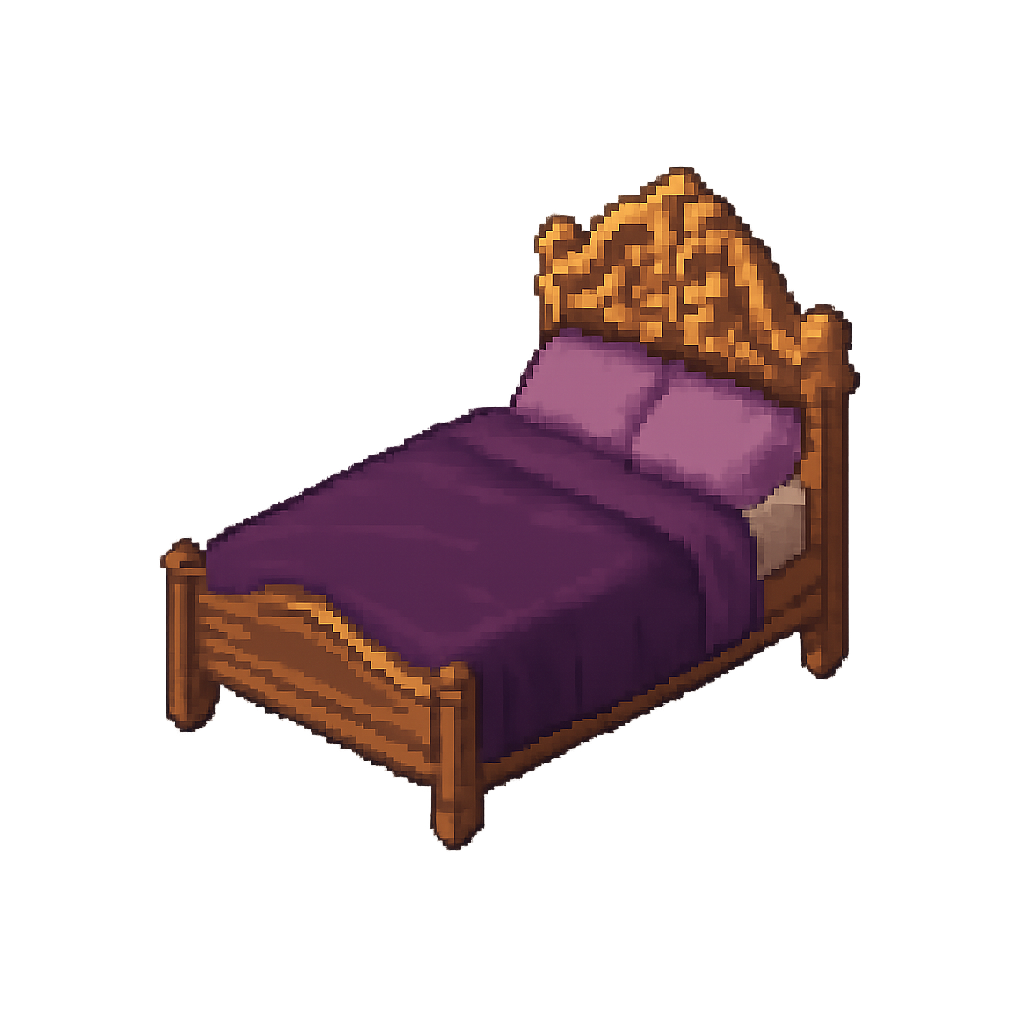
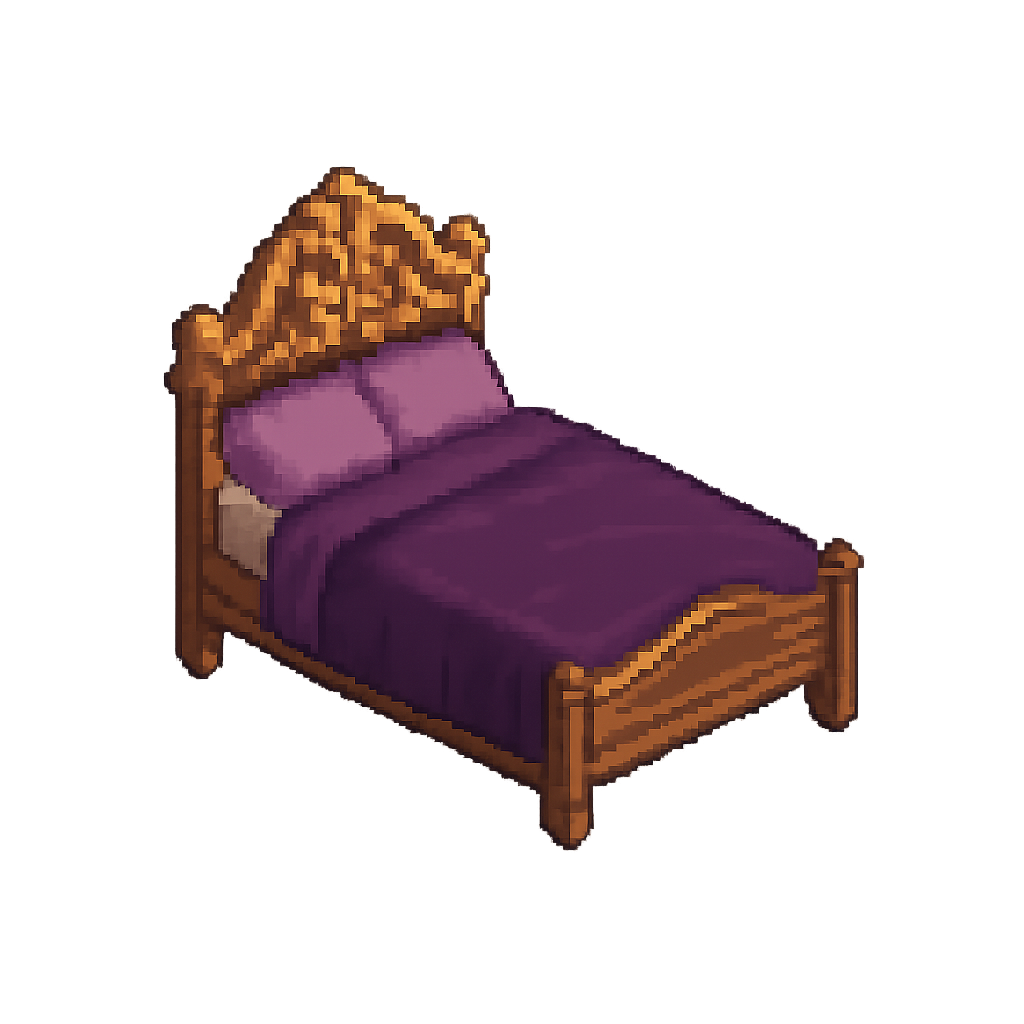
feat: Optimize building visibility with entity caching
- Cache entity visibility states to avoid expensive per-frame checks
- Only recalculate when player moves to new tile
- Use proper furniture scaling (same as other entities)
- Fix building state persistence bug
- Significant performance improvement in buildings

Changed region(s): [[0.1562, 0.1562, 0.8438, 0.8438]]

diff --git a/src/level/level_renderer.py b/src/level/level_renderer.py
@@ -32,7 +32,12 @@ class LevelRendererMixin:
         
         # OPTIMIZATION: Cache player building detection for this frame
         player_x, player_y = int(self.player.x), int(self.player.y)
-        self._player_nearby_buildings = self._get_buildings_near_player(player_x, player_y)
+        
+        # Only recalculate building detection if player moved to a new tile
+        if not hasattr(self, '_last_player_pos') or self._last_player_pos != (player_x, player_y):
+            self._update_building_states(player_x, player_y)
+            self._update_entity_visibility_cache()  # Cache entity visibility too
+            self._last_player_pos = (player_x, player_y)
         
         # Calculate visible tile range - much larger rendering area
         visible_width = (screen_width // self.tile_width) + 10  # Optimized for large worlds
@@ -56,7 +61,7 @@ class LevelRendererMixin:
                 self.render_tile_at_position(game_surface, x, y)
         
         # Clear cached building data after rendering
-        self._player_nearby_buildings = None
+        # Building states persist until player moves
         
         # Collect all entities for depth sorting
         all_entities = []
@@ -71,35 +76,10 @@ class LevelRendererMixin:
         # Sort entities by depth
         sorted_entities = sort_by_depth(all_entities)
         
-        # Render entities to game surface with building-based visibility logic
+        # Render entities to game surface using cached visibility
         for entity in sorted_entities:
-            # Show entities based on building proximity
-            should_render_entity = True
-            
-            entity_x, entity_y = int(entity.x), int(entity.y)
-            player_x, player_y = int(self.player.x), int(self.player.y)
-            
-            # Check if entity is inside a building
-            if hasattr(self, 'get_tile'):
-                entity_tile_type = self.get_tile(entity_x, entity_y)
-            else:
-                if 0 <= entity_y < len(self.tiles) and 0 <= entity_x < len(self.tiles[0]):
-                    entity_tile_type = self.tiles[entity_y][entity_x]
-                else:
-                    entity_tile_type = None
-            
-            # Check if entity is on a building tile (interior floor or wall)
-            is_entity_in_building = (entity_tile_type == self.TILE_BRICK or 
-                                   (hasattr(self, 'wall_renderer') and 
-                                    self.wall_renderer.is_wall_tile(entity_tile_type)) or
-                                   entity_tile_type == self.TILE_DOOR)
-            
-            if is_entity_in_building and entity != self.player:
-                # Entity is inside a building - check if player is close using cached data
-                if not self._is_player_near_building_tile(entity_x, entity_y):
-                    should_render_entity = False
-            
-            if should_render_entity:
+            # Use cached visibility check instead of expensive per-frame calculations
+            if self._should_render_entity_cached(entity):
                 entity.render(game_surface, self.camera_x, self.camera_y, self.iso_renderer)
         
         # Blit game surface to main screen
@@ -505,12 +485,16 @@ class LevelRendererMixin:
     
     def _get_buildings_near_player(self, player_x, player_y):
         """
-        OPTIMIZATION: Get all buildings near player once per frame (IMPROVED VERSION)
-        Returns building tiles within a reasonable radius of the player
+        Memoized building detection: cache building bounds to avoid repeated flood fills
         """
-        # Check a larger area around the player to detect buildings properly
-        search_radius = 8  # Increased from 2 to 8 for better building detection
-        building_tiles_nearby = []
+        # Initialize building cache if not exists
+        if not hasattr(self, '_building_cache'):
+            self._building_cache = {}  # Maps tile positions to building bounds
+        
+        buildings_to_flatten = set()
+        
+        # Check immediate area around player
+        search_radius = 2
         
         for dy in range(-search_radius, search_radius + 1):
             for dx in range(-search_radius, search_radius + 1):
@@ -525,11 +509,112 @@ class LevelRendererMixin:
                         continue
                     tile_type = self.tiles[check_y][check_x]
                 
-                # Simple building tile check (no expensive flood fill)
+                # If this is a building tile and player is close enough
                 if self.is_simple_building_tile(tile_type):
-                    building_tiles_nearby.append((check_x, check_y))
+                    distance = max(abs(player_x - check_x), abs(player_y - check_y))
+                    if distance <= 1:  # Player within 1 tile
+                        # Get or compute building bounds for this tile
+                        building_bounds = self._get_cached_building_bounds(check_x, check_y)
+                        if building_bounds:
+                            buildings_to_flatten.add(building_bounds)
         
-        return building_tiles_nearby
+        return buildings_to_flatten
+        
+    def _update_building_states(self, player_x, player_y):
+        """
+        Update building flattened states based on player position
+        Only update when states actually change
+        """
+        # Initialize building state cache if not exists
+        if not hasattr(self, '_building_states'):
+            self._building_states = {}  # Maps building bounds to flattened state
+        
+        # Get buildings that should be flattened based on current position
+        buildings_to_flatten = self._get_buildings_near_player(player_x, player_y)
+        
+        # Only update states that have changed
+        # First, unflatten buildings that are no longer in range
+        for building_bounds in list(self._building_states.keys()):
+            if self._building_states[building_bounds] and building_bounds not in buildings_to_flatten:
+                self._building_states[building_bounds] = False
+        
+        # Then, flatten buildings that are now in range
+        for building_bounds in buildings_to_flatten:
+            if not self._building_states.get(building_bounds, False):
+                self._building_states[building_bounds] = True
+    
+    def _get_cached_building_bounds(self, tile_x, tile_y):
+        """
+        Get building bounds with caching to avoid repeated flood fills
+        """
+        cache_key = (tile_x, tile_y)
+        
+        # Check if we already computed bounds for this tile
+        if cache_key in self._building_cache:
+            return self._building_cache[cache_key]
+        
+        # Compute building bounds using flood fill
+        building_bounds = self._compute_building_bounds(tile_x, tile_y)
+        
+        # Cache the result for ALL tiles in this building
+        if building_bounds:
+            min_x, min_y, max_x, max_y, building_tiles = building_bounds
+            bounds_tuple = (min_x, min_y, max_x, max_y)
+            
+            # Cache bounds for every tile in this building
+            for bx, by in building_tiles:
+                self._building_cache[(bx, by)] = bounds_tuple
+            
+            return bounds_tuple
+        else:
+            # Cache negative result
+            self._building_cache[cache_key] = None
+            return None
+    
+    def _compute_building_bounds(self, tile_x, tile_y):
+        """
+        Compute building bounds using flood fill (only called once per building)
+        """
+        visited = set()
+        building_tiles = set()
+        to_visit = [(tile_x, tile_y)]
+        
+        # Limit search to prevent performance issues
+        max_iterations = 200
+        iterations = 0
+        
+        while to_visit and iterations < max_iterations:
+            iterations += 1
+            curr_x, curr_y = to_visit.pop()
+            if (curr_x, curr_y) in visited:
+                continue
+            visited.add((curr_x, curr_y))
+            
+            # Get tile type
+            if hasattr(self, 'get_tile'):
+                tile_type = self.get_tile(curr_x, curr_y)
+            else:
+                if not (0 <= curr_y < len(self.tiles) and 0 <= curr_x < len(self.tiles[0])):
+                    continue
+                tile_type = self.tiles[curr_y][curr_x]
+            
+            if self.is_simple_building_tile(tile_type):
+                building_tiles.add((curr_x, curr_y))
+                # Check adjacent tiles (4-directional only for performance)
+                for dx, dy in [(0, 1), (0, -1), (1, 0), (-1, 0)]:
+                    nx, ny = curr_x + dx, curr_y + dy
+                    if (nx, ny) not in visited:
+                        to_visit.append((nx, ny))
+        
+        if building_tiles:
+            min_x = min(x for x, y in building_tiles)
+            max_x = max(x for x, y in building_tiles)
+            min_y = min(y for x, y in building_tiles)
+            max_y = max(y for x, y in building_tiles)
+            return (min_x, min_y, max_x, max_y, building_tiles)
+        
+        return None
+
     
     def is_simple_building_tile(self, tile_type):
         """Fast building tile check without expensive operations"""
@@ -543,22 +628,83 @@ class LevelRendererMixin:
     
     def _is_player_near_building_tile(self, tile_x, tile_y):
         """
-        OPTIMIZATION: Check if player is near this building tile using cached data (IMPROVED VERSION)
+        Check if this building tile should be flattened using cached building states
         """
-        if not hasattr(self, '_player_nearby_buildings') or self._player_nearby_buildings is None:
+        if not hasattr(self, '_building_states'):
             return False
         
-        # More generous distance check for building proximity
-        for nearby_x, nearby_y in self._player_nearby_buildings:
-            # If this tile is within 6 tiles of a nearby building tile, consider it close
-            # This allows for larger buildings and better interior visibility
-            if abs(tile_x - nearby_x) <= 6 and abs(tile_y - nearby_y) <= 6:
-                return True
+        # Get cached building bounds for this tile
+        if not hasattr(self, '_building_cache'):
+            return False
+            
+        cache_key = (tile_x, tile_y)
+        if cache_key not in self._building_cache:
+            return False
+            
+        building_bounds = self._building_cache[cache_key]
+        if not building_bounds:
+            return False
         
-        # Also check direct distance to player for immediate proximity
-        player_x, player_y = int(self.player.x), int(self.player.y)
-        direct_distance = max(abs(tile_x - player_x), abs(tile_y - player_y))
-        if direct_distance <= 4:  # Player is within 4 tiles of this position
+        # Check cached building state
+        return self._building_states.get(building_bounds, False)
+    
+    def _update_entity_visibility_cache(self):
+        """
+        Cache entity visibility states to avoid expensive per-frame checks
+        """
+        if not hasattr(self, '_entity_visibility_cache'):
+            self._entity_visibility_cache = {}
+        
+        # Get all entities
+        all_entities = []
+        all_entities.extend(getattr(self, 'enemies', []))
+        all_entities.extend(getattr(self, 'npcs', []))
+        all_entities.extend(getattr(self, 'items', []))
+        all_entities.extend(getattr(self, 'objects', []))
+        all_entities.extend(getattr(self, 'chests', []))
+        all_entities.extend(getattr(self, 'furniture', []))
+        
+        # Cache visibility for each entity
+        for entity in all_entities:
+            entity_id = id(entity)  # Use object ID as unique identifier
+            entity_x, entity_y = int(entity.x), int(entity.y)
+            
+            # Check if entity is inside a building
+            if hasattr(self, 'get_tile'):
+                entity_tile_type = self.get_tile(entity_x, entity_y)
+            else:
+                if 0 <= entity_y < len(self.tiles) and 0 <= entity_x < len(self.tiles[0]):
+                    entity_tile_type = self.tiles[entity_y][entity_x]
+                else:
+                    entity_tile_type = None
+            
+            # Check if entity is on a building tile (interior floor or wall)
+            is_entity_in_building = (entity_tile_type == self.TILE_BRICK or 
+                                   (hasattr(self, 'wall_renderer') and 
+                                    self.wall_renderer.is_wall_tile(entity_tile_type)) or
+                                   entity_tile_type == self.TILE_DOOR)
+            
+            if is_entity_in_building:
+                # Entity is inside a building - check if player is close using cached data
+                should_render = self._is_player_near_building_tile(entity_x, entity_y)
+            else:
+                # Entity is outside - always render
+                should_render = True
+            
+            self._entity_visibility_cache[entity_id] = should_render
+    
+    def _should_render_entity_cached(self, entity):
+        """
+        Fast entity visibility check using cached data
+        """
+        # Always render the player
+        if entity == self.player:
             return True
         
-        return False
+        # Use cached visibility if available
+        if hasattr(self, '_entity_visibility_cache'):
+            entity_id = id(entity)
+            return self._entity_visibility_cache.get(entity_id, True)  # Default to visible
+        
+        # Fallback to always visible if cache not ready
+        return True

diff --git a/src/entities/furniture.py b/src/entities/furniture.py
@@ -301,19 +301,39 @@ class Furniture(Entity):
         pass
     
     def render(self, surface, camera_x, camera_y, iso_renderer):
-        """Render furniture using isometric projection"""
+        """Render furniture using isometric projection with same scaling as other entities"""
         if not self.sprite:
             return
         
         # Convert world coordinates to screen coordinates
         screen_x, screen_y = iso_renderer.world_to_screen(self.x, self.y, camera_x, camera_y)
         
+        # Use the same scaling approach as other entities (base.py)
+        # Scale to a fixed size while maintaining aspect ratio
+        base_size = 48  # Same as other entities
+        
+        # For multi-tile furniture, scale proportionally
+        scaled_size = base_size * max(self.width, self.height)
+        
+        # Scale the sprite maintaining aspect ratio
+        original_rect = self.sprite.get_rect()
+        if original_rect.width > original_rect.height:
+            # Wide sprite
+            new_width = scaled_size
+            new_height = int(scaled_size * original_rect.height / original_rect.width)
+        else:
+            # Tall or square sprite
+            new_height = scaled_size
+            new_width = int(scaled_size * original_rect.width / original_rect.height)
+        
+        scaled_sprite = pygame.transform.scale(self.sprite, (new_width, new_height))
+        
         # Center the sprite
-        sprite_rect = self.sprite.get_rect()
+        sprite_rect = scaled_sprite.get_rect()
         sprite_rect.center = (screen_x, screen_y)
         
-        # Render the sprite
-        surface.blit(self.sprite, sprite_rect)
+        # Render the scaled sprite
+        surface.blit(scaled_sprite, sprite_rect)
         
         # Render interaction prompt if player is nearby
         if hasattr(self, '_show_interaction_prompt') and self._show_interaction_prompt:
